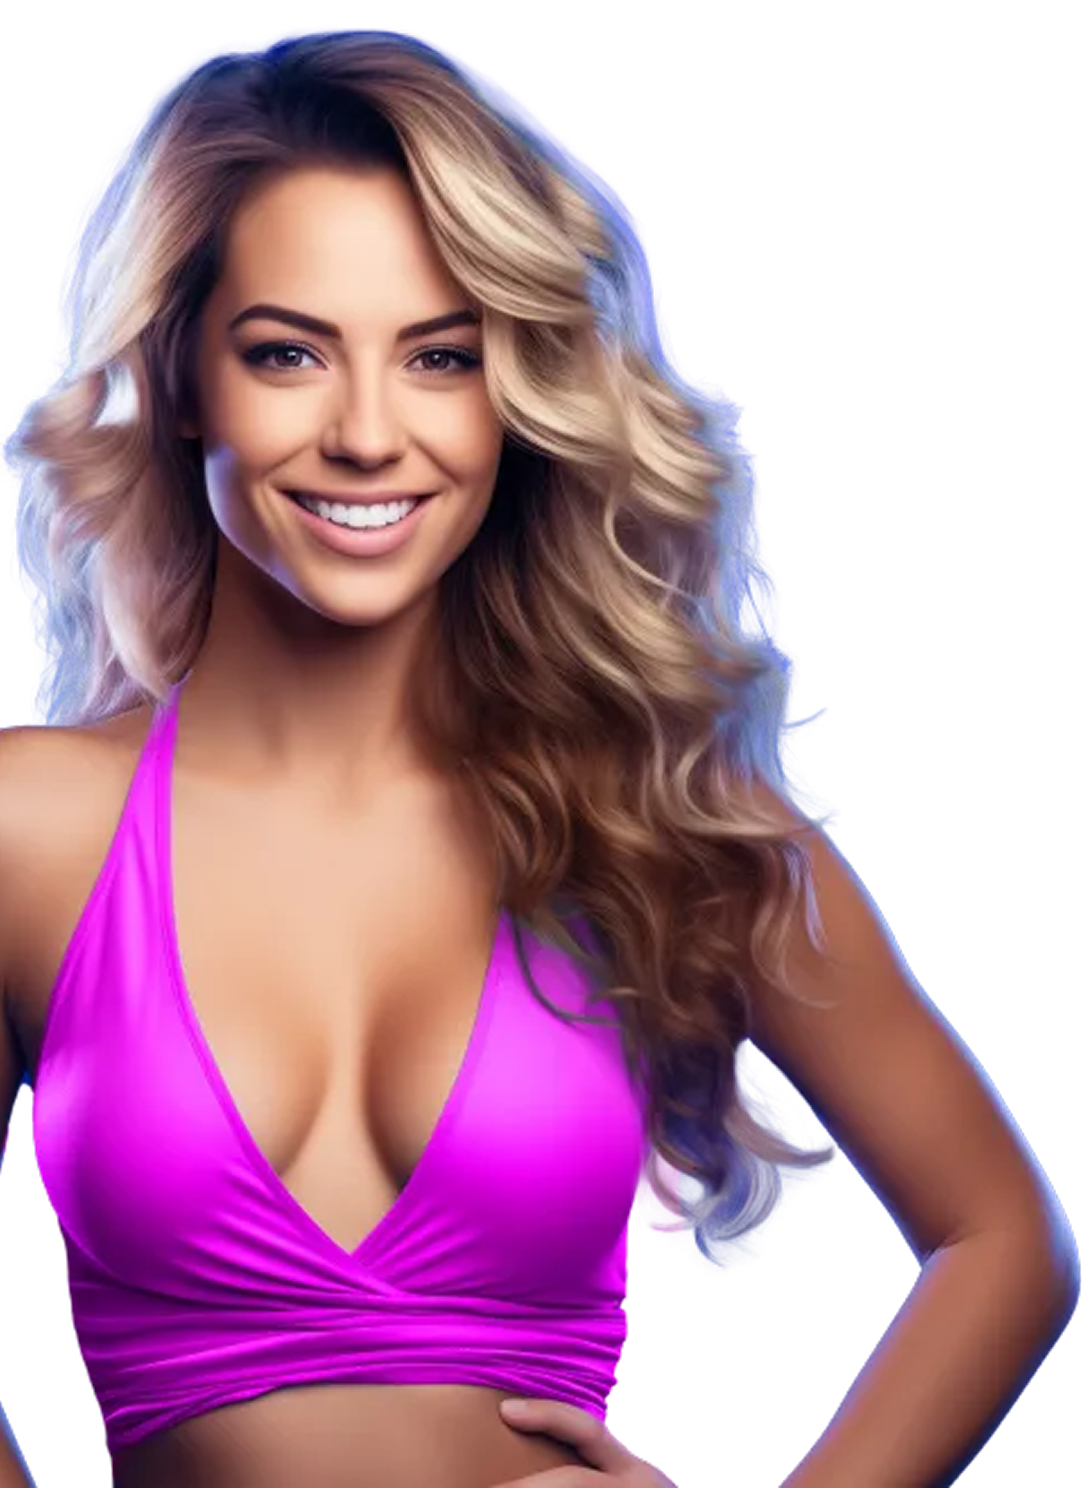
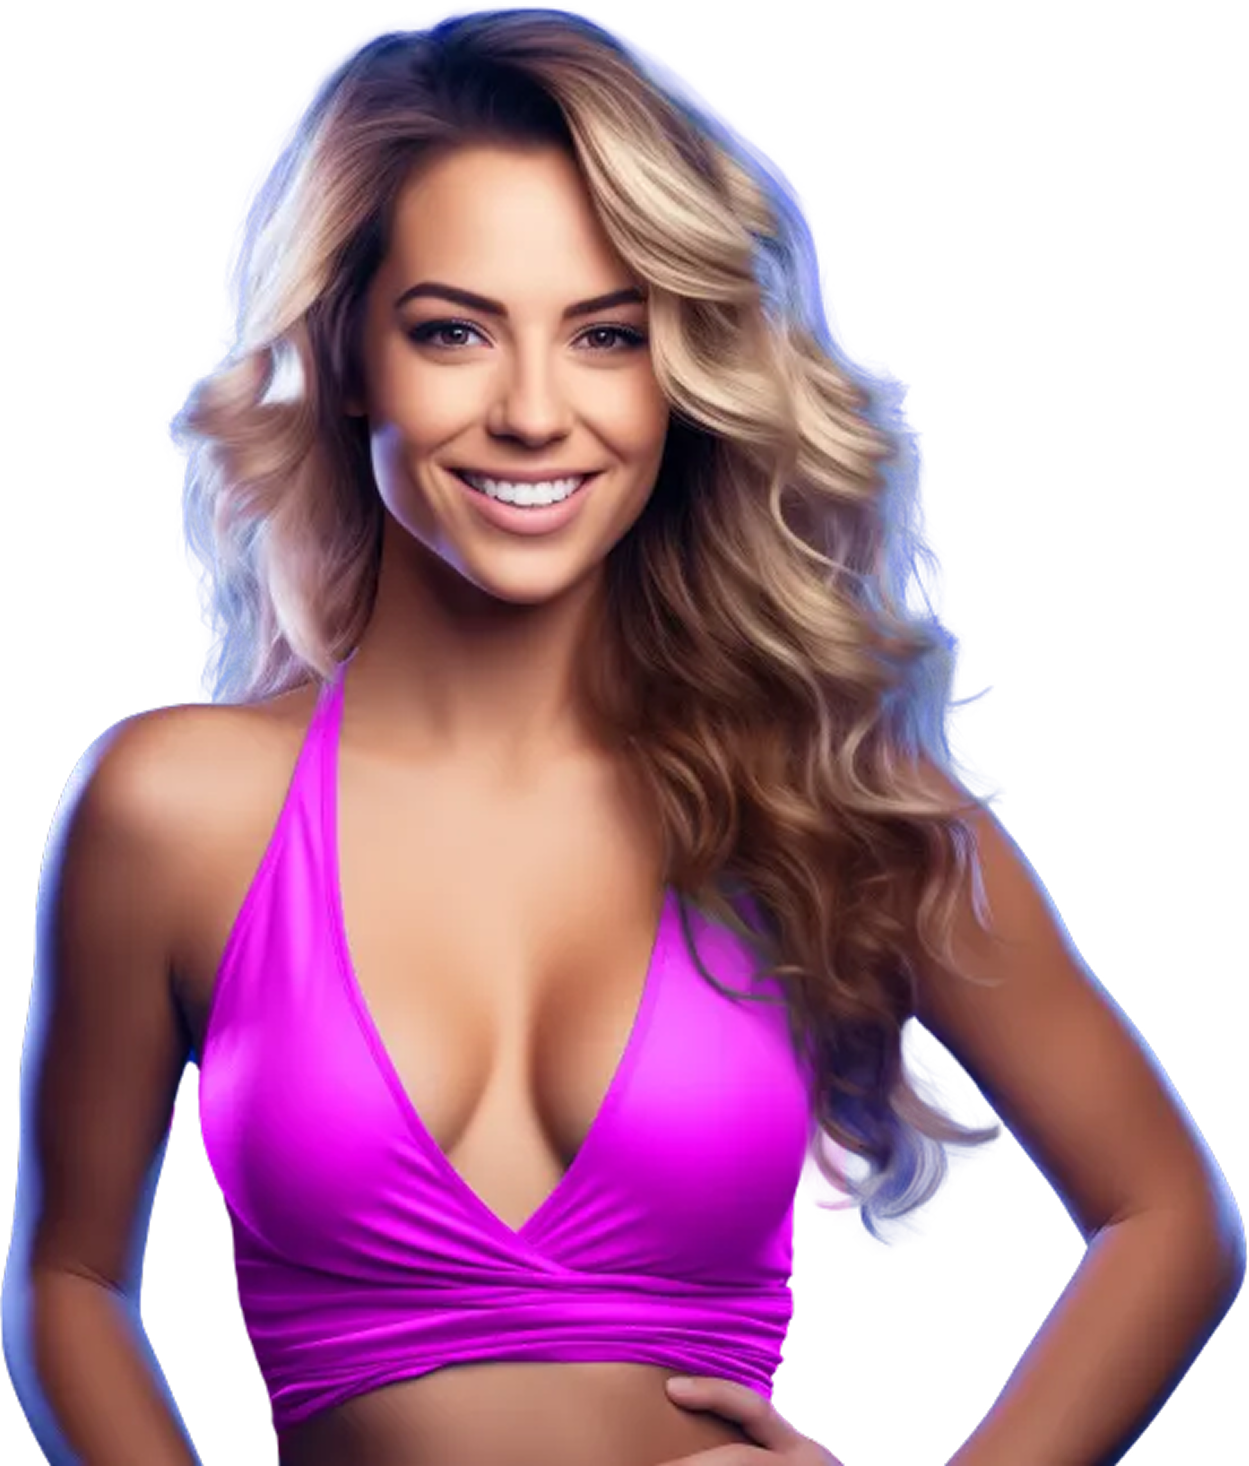
styles

diff --git a/src/scss/hero.scss b/src/scss/hero.scss
@@ -4,6 +4,48 @@
   background-size: cover;
   background-position: center;
   background-repeat: no-repeat;
+  position: relative;
+  overflow: hidden;
+  @media (max-width: 768px) {
+    padding: 190px 20px;
+    background-position: 65%;
+  }
+
+  &::before {
+    content: "";
+    position: absolute;
+    bottom: 0;
+    left: -5%;
+    max-width: 650px;
+    width: 100%;
+    height: 95%;
+    background-image: url(../images/woman1.png);
+    background-size: contain;
+    background-position: center;
+    background-repeat: no-repeat;
+    z-index: 0;
+    @media (max-width: 1024px) {
+      display: none;
+    }
+  }
+
+  &::after {
+    content: "";
+    position: absolute;
+    right: -8%;
+    bottom: 0;
+    max-width: 650px;
+    width: 100%;
+    height: 95%;
+    background-image: url(../images/woman2.png);
+    background-size: contain;
+    background-position: center;
+    background-repeat: no-repeat;
+    z-index: 0;
+    @media (max-width: 1024px) {
+      display: none;
+    }
+  }
   .hero_cotent {
     display: block;
     margin: 0 auto;
@@ -13,6 +55,11 @@
     text-align: center;
     border-radius: 15px;
     background: rgba(0, 39, 62, 0.2);
+    border: 2px solid #4c5f6d;
+    position: relative;
+    z-index: 1;
+    backdrop-filter: blur(10px);
+    -webkit-backdrop-filter: blur(10px);
 
     h1 {
       color: #fff;
@@ -23,6 +70,11 @@
       flex-direction: column;
       justify-content: center;
       align-items: center;
+      gap: 10px;
+      @media (max-width: 768px) {
+        gap: 18px;
+      }
+
       span {
         color: #fff;
         font-size: 33.636px;
@@ -33,6 +85,9 @@
         background-color: #0080f4;
         padding: 4px;
         transform: rotate(-1deg);
+        @media (max-width: 768px) {
+          font-size: 30px;
+        }
       }
     }
     p {
@@ -55,16 +110,96 @@
       justify-content: center;
       align-items: center;
       gap: 10px;
+      @media (max-width: 768px) {
+        flex-direction: column;
+      }
+      .hero_first_deposit,
+      .hero_second_deposit {
+        display: flex;
+        gap: 5px;
+        flex-direction: column;
+        width: 100%;
+
+        .hero_subtitle {
+          color: rgba(255, 255, 255, 0.5);
+          font-size: 18px;
+          font-style: normal;
+          font-weight: 400;
+          line-height: 1.39;
+          text-align: start;
+        }
+        .deposit_wrap {
+          border: 2px solid #0080f4;
+          display: flex;
+          justify-content: space-between;
+          align-items: center;
+          padding: 15px 20px;
+
+          .deposit_promo {
+            background: linear-gradient(90deg, #007eff 0%, #0068d1 100%);
+            -webkit-background-clip: text;
+            -webkit-text-fill-color: transparent;
+            background-clip: text;
+            color: transparent;
+            font-size: 25px;
+            font-style: normal;
+            font-weight: 800;
+            text-transform: uppercase;
+          }
+          .copy_btn {
+            border: none;
+            background: none;
+            color: #fff;
+            font-size: 15px;
+            font-style: normal;
+            font-weight: 800;
+            line-height: normal;
+            text-transform: uppercase;
+            cursor: pointer;
+          }
+        }
+      }
     }
-    a {
+
+    .hero_btn_link {
       color: #fff;
       text-align: center;
       font-size: 25px;
       font-weight: 800;
+      text-transform: uppercase;
+      text-decoration: none;
       border-radius: 100px;
+      padding: 15px 60px;
+      display: inline-block;
+      margin-top: 25px;
       border: 1px solid #ff3a4b;
       background: linear-gradient(180deg, #d60416 0%, #ff3a4b 100%);
       box-shadow: 0 10px 30px 0 rgba(255, 58, 75, 0.5);
+    }
+  }
+  .description {
+    color: #fff;
+    text-align: center;
+    font-size: 18px;
+    line-height: normal;
+    margin: 25px auto;
+    max-width: 650px;
+    position: relative;
+    z-index: 1;
+    span {
+      font-weight: 700;
+    }
+  }
+  .payment_images {
+    display: flex;
+    justify-content: center;
+    align-items: center;
+    gap: 4px;
+    position: relative;
+    z-index: 1;
+    img {
+      width: 100%;
+      max-width: 47px;
     }
   }
 }

diff --git a/src/scss/header.scss b/src/scss/header.scss
@@ -1,5 +1,8 @@
 header {
   padding: 20px 0 60px 0;
+  @media (max-width: 768px) {
+    padding: 20px 0;
+  }
 
   .logo {
     max-width: 210px;

diff --git a/index.php b/index.php
@@ -22,14 +22,44 @@
     <div class="container hero_cotent">
       <h1>get ready to start playing with <span class="highlight">$3000 welcome bonus</span></h1>
       <p><span>100%</span> match bonus up to <span>$1000</span> on first <span>3 deposits</span></p>
-      <div class="hero_promo">
 
-        <div>First Deposit</div>
-        <div class="deposit_promo">cawelcome100</div>
-        <button class="copy_btn">copy</button>
+      <div class="hero_promo">
+        <div class="hero_first_deposit">
+          <div class="hero_subtitle">First Deposit</div>
+          <div class="deposit_wrap">
+            <div class="deposit_promo">cawelcome100</div>
+            <button class="copy_btn" type="button">copy</button>
+          </div>
+        </div>
+
+        <div class="hero_second_deposit">
+          <div class="hero_subtitle">Second and Third Deposit</div>
+          <div class="deposit_wrap">
+            <div class="deposit_promo">BV2NDCWB</div>
+            <button class="copy_btn" type="button">copy</button>
+          </div>
+        </div>
       </div>
+
+
       <a class="hero_btn_link" href="/">claim your bonus</a>
     </div>
+
+    <p class="description"><span>Bovada</span> is licensed and regulated by the Union of the Comoros and the Central
+      Reserve Authority of
+      Western Sahara.</p>
+
+    <div class="payment_images">
+      <img src="/src/icons/visa.svg" alt="visa">
+      <img src="/src/icons/mastercard.svg" alt="mastercard">
+      <img src="/src/icons/L.svg" alt="ethereum">
+      <img src="/src/icons/t.svg" alt="bitcoin">
+      <img src="/src/icons/Bitcoin.svg" alt="litecoin">
+      <img src="/src/icons/Bitcoin_green.svg" alt="litecoin">
+    </div>
+
+
+
   </section>
 
 
